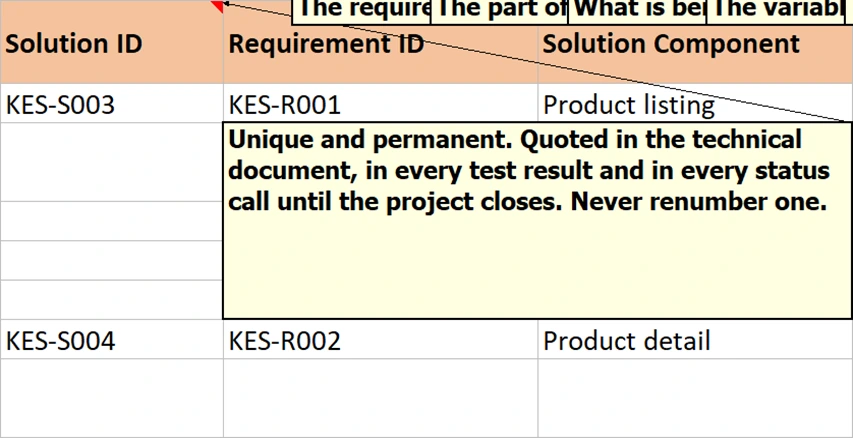
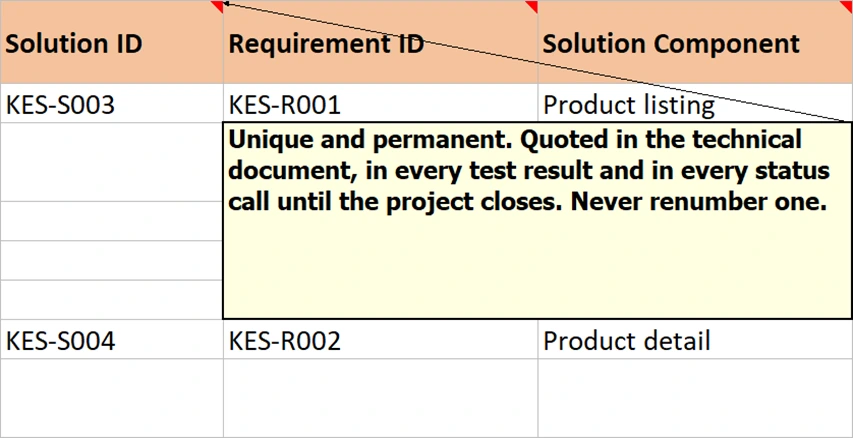
Lift the comment screenshot out of the walkthrough, and reshoot it
Two faults in one place. The screenshot sat between the last numbered step and
the closing line of the "Do this" block, which broke the numbered rail and read
as a stray panel dropped into the middle of a list. It now sits after the block
in normal flow, where the prose can introduce it.

And the capture itself was wrong. Opening one comment used
xlCommentAndIndicator, which opens EVERY comment on the sheet, so four other
balloons were showing across the headers, each clipped to a couple of words:
"The require", "The part of", "What is be", "The variabl". Recaptured with
xlCommentIndicatorOnly, which leaves the red triangles on every header and
shows only the one balloon that was deliberately opened. The triangles are what
the note points at, so they had to stay.

Checked the other five sections for the same nesting mistake. There is none.

Verified: 219 pages, divs balanced, source h3 stack matches the build on all
six, both merge guards clear.

Changed region(s): [[0.3353, 0.0, 1.0, 0.0594]]

diff --git a/amitdusane-site-complete/content/adobe-analytics-learning/deliver/solution-design-reference/01-what-is-an-sdr.html b/amitdusane-site-complete/content/adobe-analytics-learning/deliver/solution-design-reference/01-what-is-an-sdr.html
@@ -257,16 +257,17 @@ weight: 1
             <span class="ds-see">They are what makes the workbook explain itself to whoever opens it in two years, which is usually not you, and is sometimes you having forgotten.</span>
         </li>
     </ol>
-    <div class="shot-box">
-        <div class="shot-title">Every column header carries its own definition</div>
-        <div class="shot-frame">
-            <img src="/img/adobe-analytics-sdr-column-definition-comment.webp" width="426" height="219" loading="lazy"
-                 alt="A comment balloon open on the Solution ID header, defining the column.">
-            <button type="button" class="shot-zoom-btn" aria-label="Enlarge this screenshot">&#10530;</button>
-        </div>
-        <div class="shot-note">Look at the red triangles rather than the balloon. Every header on the sheet carries a definition, so the document answers its own questions without you in the room. This costs about ten minutes once and it is the difference between a workbook somebody inherits and one somebody rebuilds.</div>
-    </div>
     <p class="dothis-end">That is the whole setup. Three workbooks stripped, one prefix changed, and the requirements started. Nothing else needs building before the work begins. None of it is a ceiling either: every project adds a column or a sheet its own situation demands, and the ones that hold up are worth carrying into the next project.</p>
+</div>
+
+<div class="shot-box">
+    <div class="shot-title">Every column header carries its own definition</div>
+    <div class="shot-frame">
+        <img src="/img/adobe-analytics-sdr-column-definition-comment.webp" width="426" height="219" loading="lazy"
+             alt="A comment balloon open on the Solution ID header, defining the column.">
+        <button type="button" class="shot-zoom-btn" aria-label="Enlarge this screenshot">&#10530;</button>
+    </div>
+    <div class="shot-note">Look at the red triangles rather than the balloon. Every header on the sheet carries one, so the document answers its own questions without you in the room. Ten minutes once, and it is the difference between a workbook somebody inherits and one somebody rebuilds.</div>
 </div>
 
 <h3 class="subsec-title">Where the design actually gets made</h3>
